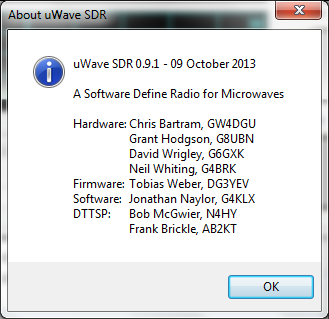
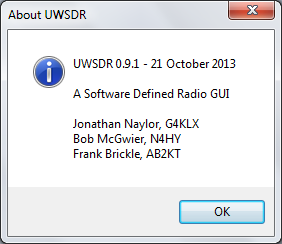
Clean up the name, and fix the Sentry .sdr file.

diff --git a/trunk/Software/Help/UWSDR/AboutUWSDR.htm b/trunk/Software/Help/UWSDR/AboutUWSDR.htm
@@ -3,7 +3,7 @@
 <title>About UWSDR</title>
 </head>
 <body>
-<p><img src="AboutUWSDR.png" width="329" height="319" /></p>
+<p><img src="AboutUWSDR.png" width="282" height="244" /></p>
 <p>The About UWSDR box is simply acknowledgements for work done on the project. A number of the names on the page are people from other projects that have, possibly unknowingly, contributed to the project through the joys of open source software/hardware.</p>
 </body>
 </html>

diff --git a/trunk/Software/Help/UWSDR/HardwareInfo.htm b/trunk/Software/Help/UWSDR/HardwareInfo.htm
@@ -3,7 +3,7 @@
 <title>Hardware Info</title>
 </head>
 <body>
-<p><img src="HardwareInfo.png" width="329" height="274" /></p>
+<p><img src="HardwareInfo.png" width="329" height="304" /></p>
 <p>The Hardware Info displays information about the SDR that is currently being used. This information is taken from the SDR description file and describes the parameters of the hardware.</p>
 </body>
 </html>

diff --git a/trunk/Software/UWSDRGUI/UWSDRFrame.cpp b/trunk/Software/UWSDRGUI/UWSDRFrame.cpp
@@ -274,7 +274,7 @@ void CUWSDRFrame::setParameters(CSDRParameters* parameters)
 		bool ret = m_tuning->open();
 		if (!ret) {
 			::wxLogError(wxT("Problems communicating with the tuning hardware"));
-			::wxMessageBox(_("Problems communicating with the tuning hardware"), _("uWave SDR Error"), wxICON_ERROR);
+			::wxMessageBox(_("Problems communicating with the tuning hardware"), _("UWSDR Error"), wxICON_ERROR);
 			Close(true);
 			return;
 		}
@@ -307,7 +307,7 @@ void CUWSDRFrame::setParameters(CSDRParameters* parameters)
 	bool ret = m_sdr->open();
 	if (!ret) {
 		::wxLogError(wxT("Problems communicating with the SDR"));
-		::wxMessageBox(_("Problems communicating with the SDR"), _("uWave SDR Error"), wxICON_ERROR);
+		::wxMessageBox(_("Problems communicating with the SDR"), _("UWSDR Error"), wxICON_ERROR);
 		Close(true);
 		return;
 	}
@@ -592,7 +592,7 @@ void CUWSDRFrame::setParameters(CSDRParameters* parameters)
 	ret = m_dsp->open();
 	if (!ret) {
 		::wxLogError(wxT("Problems opening the I/O ports"));
-		::wxMessageBox(_("Problems opening the input/output ports."), _("uWave SDR Error"), wxICON_ERROR);
+		::wxMessageBox(_("Problems opening the input/output ports."), _("UWSDR Error"), wxICON_ERROR);
 		Close(true);
 		return;
 	}
@@ -615,7 +615,7 @@ void CUWSDRFrame::createMenu()
 	m_menu->AppendSeparator();
 	m_menu->Append(wxID_HELP,            _("Help\tF1"));
 	m_menu->Append(MENU_HARDWARE_INFO,   _("Hardware Info"));
-	m_menu->Append(wxID_ABOUT,           _("About uWave SDR"));
+	m_menu->Append(wxID_ABOUT,           _("About UWSDR"));
 	m_menu->AppendSeparator();
 	m_menu->Append(wxID_EXIT,            _("Exit\tALT-F4"));
 }
@@ -1482,7 +1482,7 @@ void CUWSDRFrame::onMenuSelection(wxCommandEvent& event)
 
 				if (!ret) {
 					m_record = false;
-					::wxMessageBox(_("Cannot open the sound file for recording"), _("uWave SDR Error"), wxICON_ERROR);
+					::wxMessageBox(_("Cannot open the sound file for recording"), _("UWSDR Error"), wxICON_ERROR);
 				}
 			} else {
 				m_dsp->setRecordOff();
@@ -1563,7 +1563,7 @@ void CUWSDRFrame::onMenuSelection(wxCommandEvent& event)
 
 #if defined(__WXMSW__)
 			::wxMessageBox(VERSION + wxT(" - ") + dateText +
-				_("\n\nA Software Defined Radio GUI\n\n\tJonathan Naylor, G4KLX\n\tBob McGwier, N4HY\n\tFrank Brickle, AB2KT"),
+				_("\n\nA Software Defined Radio GUI\n\nJonathan Naylor, G4KLX\nBob McGwier, N4HY\nFrank Brickle, AB2KT"),
 				_("About UWSDR"),
 				wxICON_INFORMATION);
 #else
@@ -1669,8 +1669,8 @@ void CUWSDRFrame::onClose(wxCloseEvent& event)
 		return;
 	}
 
-	int reply = ::wxMessageBox(_("Do you want to exit uWave SDR"),
-		_("Exit uWSDR"),
+	int reply = ::wxMessageBox(_("Do you want to exit UWSDR"),
+		_("Exit UWSDR"),
 		wxOK | wxCANCEL | wxICON_QUESTION);
 
 	if (reply == wxOK) {
@@ -1812,7 +1812,7 @@ void CUWSDRFrame::onCommandNak(wxEvent& event1)
 	wxString message = event2.GetString();
 
 	::wxLogError(wxT("Received a NAK from the SDR: ") + message);
-	::wxMessageBox(_("Received a NAK from the SDR\n") + message, _("uWave SDR Error"), wxICON_ERROR);
+	::wxMessageBox(_("Received a NAK from the SDR\n") + message, _("UWSDR Error"), wxICON_ERROR);
 }
 
 void CUWSDRFrame::onCommandError(wxEvent& event1)
@@ -1821,13 +1821,13 @@ void CUWSDRFrame::onCommandError(wxEvent& event1)
 	wxString message = event2.GetString();
 
 	::wxLogError(message);
-	::wxMessageBox(message, _("uWave SDR Error"), wxICON_ERROR);
+	::wxMessageBox(message, _("UWSDR Error"), wxICON_ERROR);
 }
 
 void CUWSDRFrame::onConnectionLost(wxEvent& WXUNUSED(event))
 {
 	::wxLogError(wxT("Connection to the SDR lost"));
-	::wxMessageBox(_("Connection to the SDR lost"), _("uWave SDR Error"), wxICON_ERROR);
+	::wxMessageBox(_("Connection to the SDR lost"), _("UWSDR Error"), wxICON_ERROR);
 
 	Close(true);
 }

diff --git a/trunk/Software/Common/Common.h b/trunk/Software/Common/Common.h
@@ -22,7 +22,7 @@
 #include <wx/wx.h>
 #include <wx/datetime.h>
 
-const wxString VERSION  = wxT("uWave SDR 0.9.1");
+const wxString VERSION  = wxT("UWSDR 0.9.1");
 
 const wxDateTime::wxDateTime_t REL_DATE_DAY   = 21;
 const wxDateTime::Month        REL_DATE_MONTH = wxDateTime::Oct;
